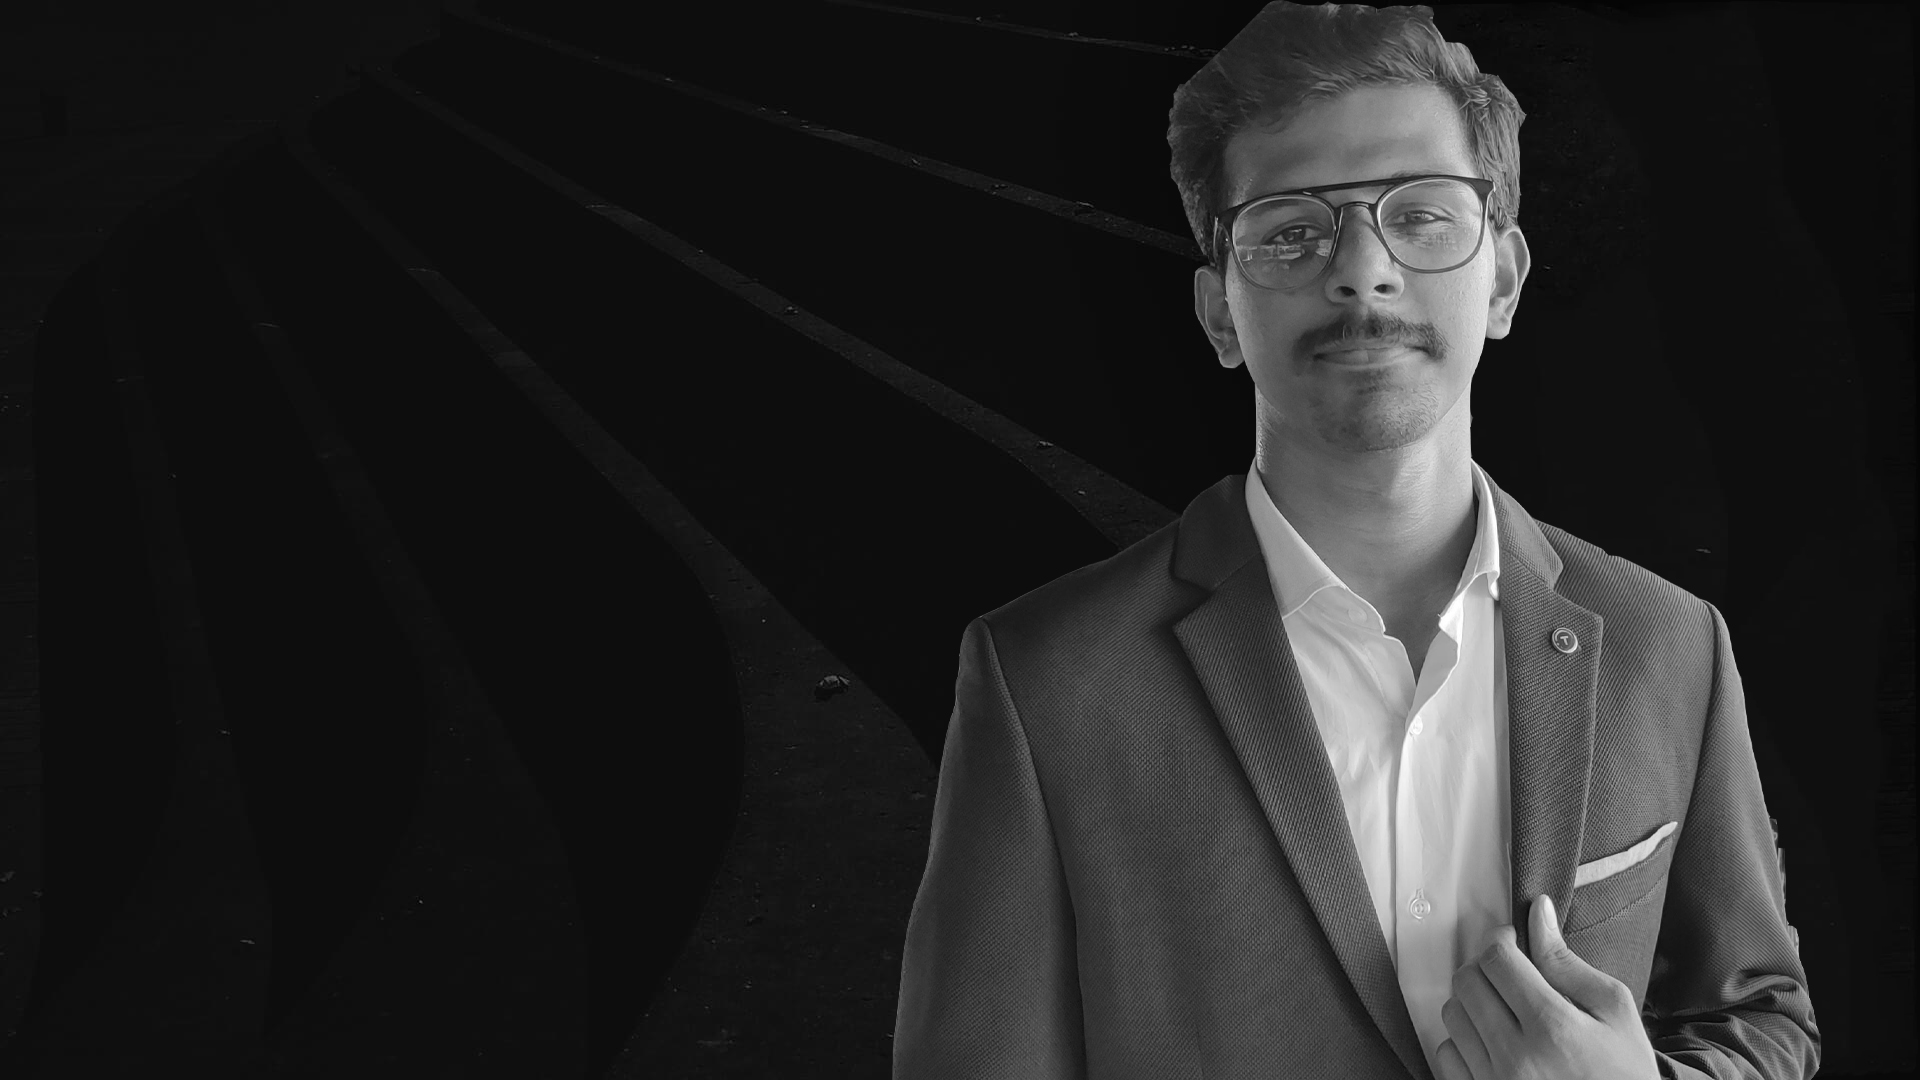
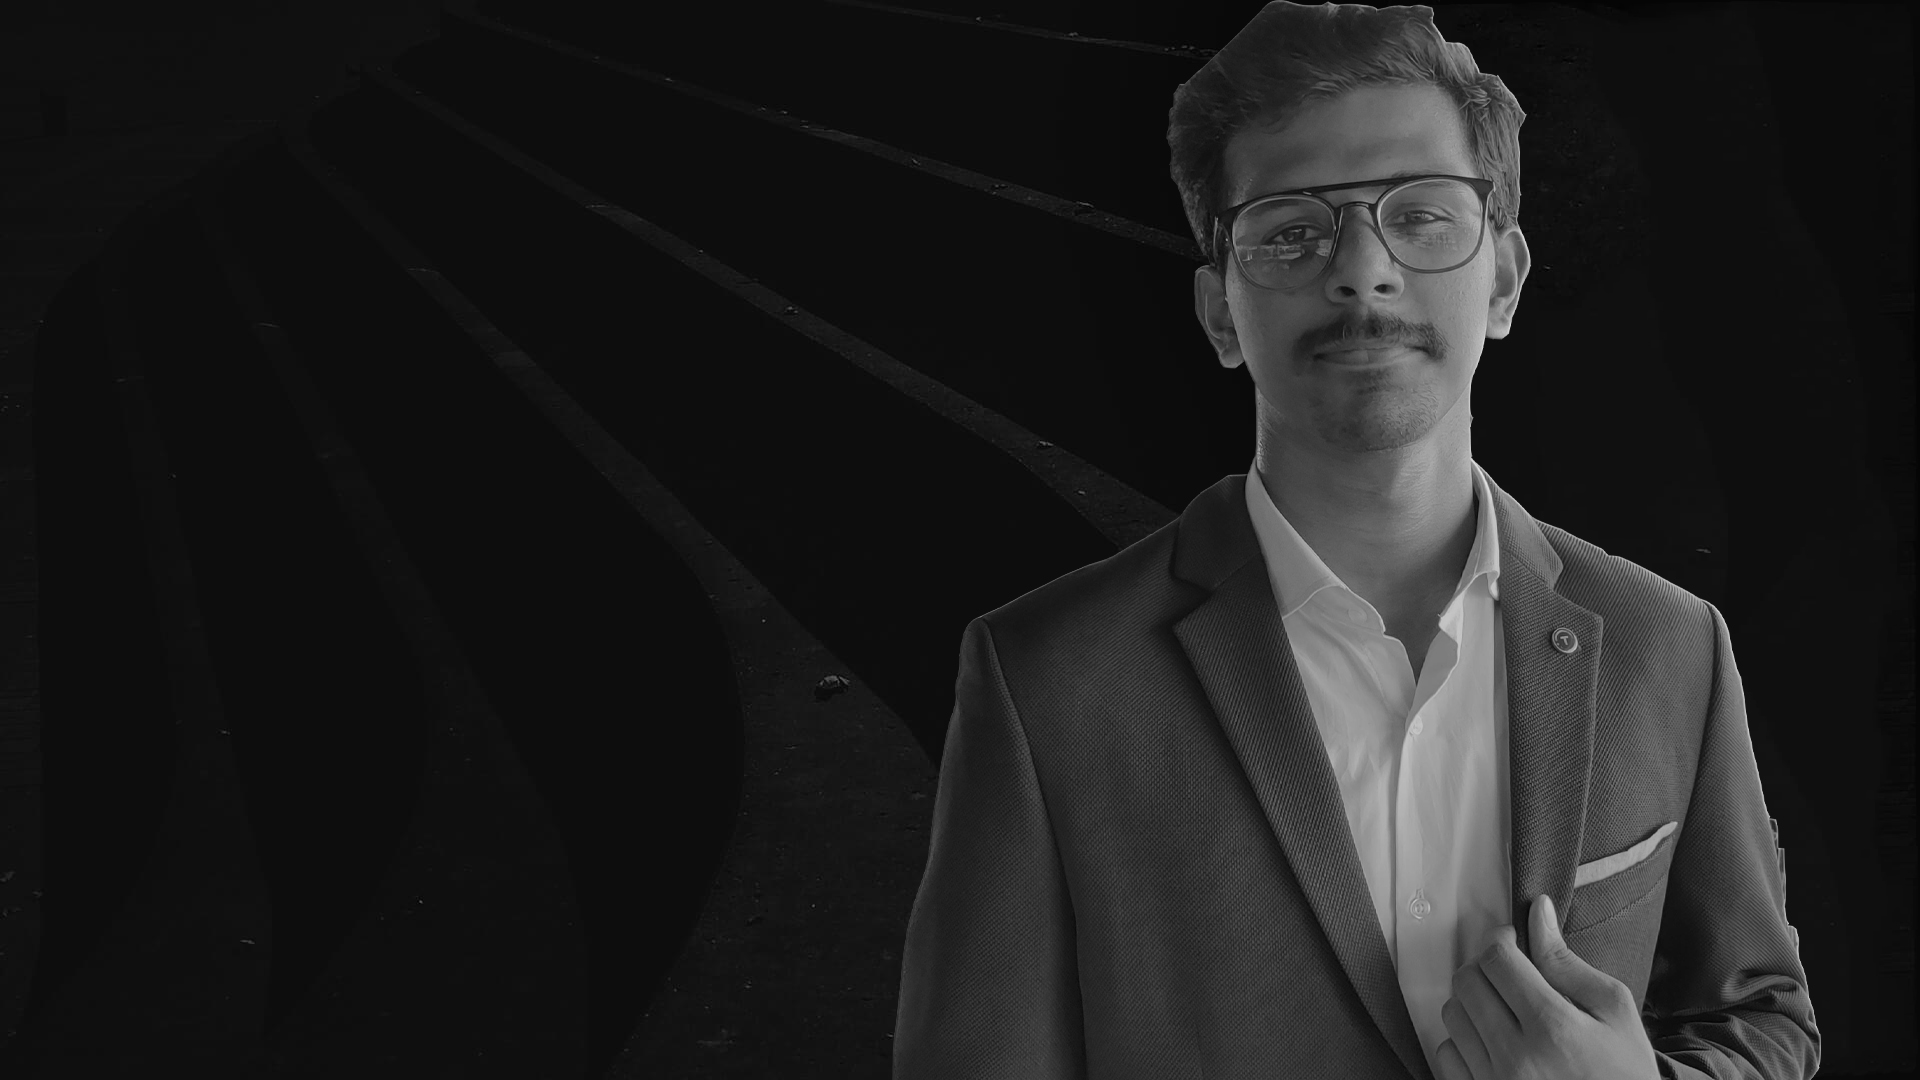
background image

Changed region(s): [[0.625, 0.0306, 0.9688, 1.0], [0.625, 0.1833, 0.6562, 0.3361], [0.6562, 0.3667, 0.6875, 0.3972]]

diff --git a/index.html b/index.html
@@ -110,7 +110,7 @@
             <div class="col-lg-6">
               <ul>
                 <li><i class="bi bi-chevron-right"></i> <strong>Age:</strong> <span>21</span></li>
-                <li><i class="bi bi-chevron-right"></i> <strong>Degree:</strong> <span>Batchelor</span></li>
+                <li><i class="bi bi-chevron-right"></i> <strong>Degree:</strong> <span>Bachelor</span></li>
                 <li><i class="bi bi-chevron-right"></i> <strong>Email:</strong> <span>kelpatmel@gmail.com</span></li>
                 <li><i class="bi bi-chevron-right"></i> <strong>Freelance:</strong> <span>Available</span></li>
               </ul>
@@ -406,7 +406,7 @@
 
       <div class="section-title">
         <h2>Resume</h2>
-        <p>Check My Resume</p>
+        <p>My Resume</p>
       </div>
 
       <div class="row">
@@ -426,8 +426,8 @@
 
           <h3 class="resume-title">Education</h3>
           <div class="resume-item">
-            <h4>Master of Fine Arts &amp; Graphic Design</h4>
-            <h5>2015 - 2016</h5>
+            <h4>Bachelor in Information Technology</h4>
+            <h5>2018 - 2022</h5>
             <p><em>Rochester Institute of Technology, Rochester, NY</em></p>
             <p>Qui deserunt veniam. Et sed aliquam labore tempore sed quisquam iusto autem sit. Ea vero voluptatum qui ut dignissimos deleniti nerada porti sand markend</p>
           </div>

diff --git a/assets/css/style.css b/assets/css/style.css
@@ -23,6 +23,7 @@ body::before {
 
 @media (min-width: 1024px) {
   body::before {
+    background: #040404 url("../img/bg3.jpg") top right no-repeat;
     background-attachment: fixed;
   }
 }
